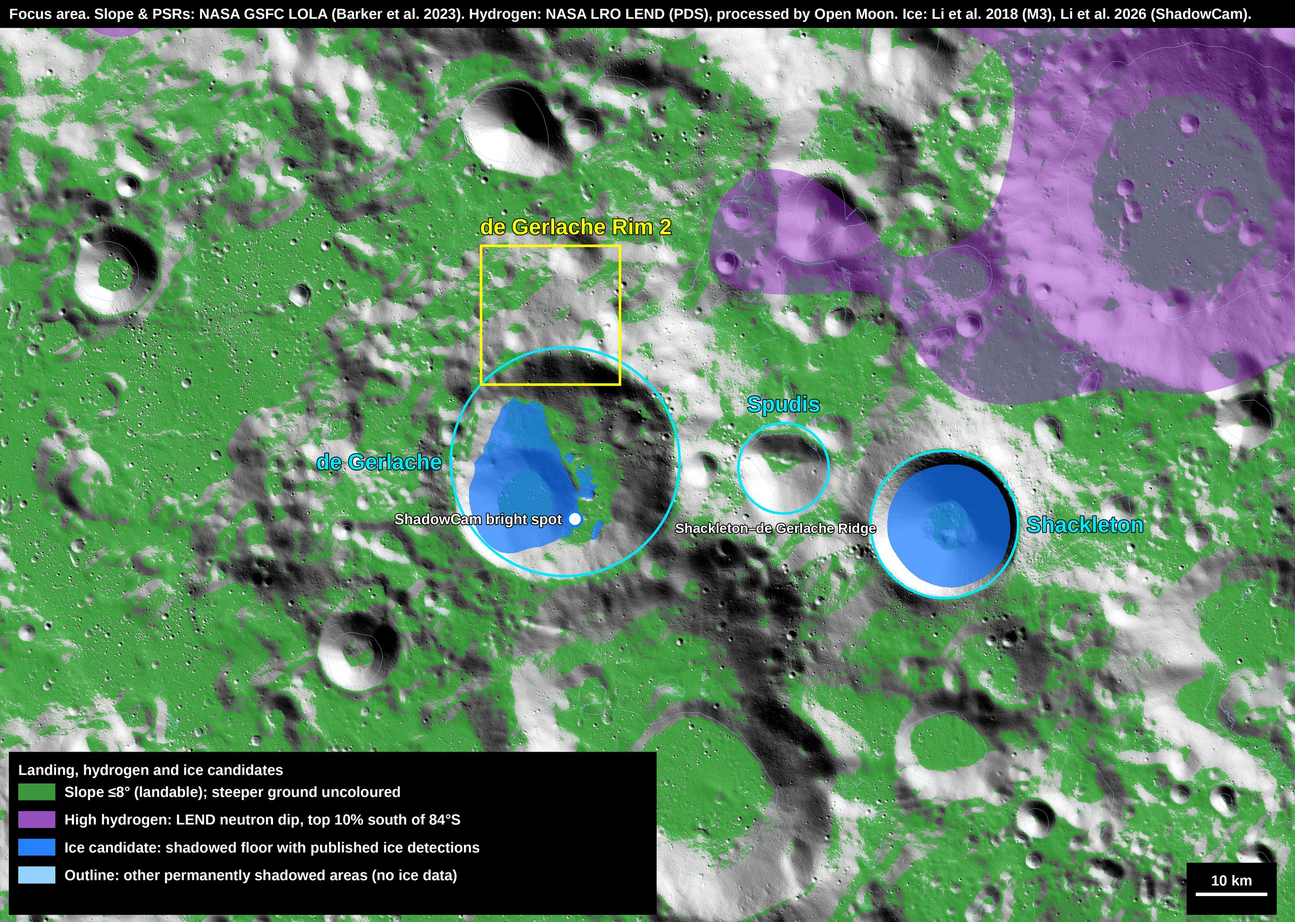
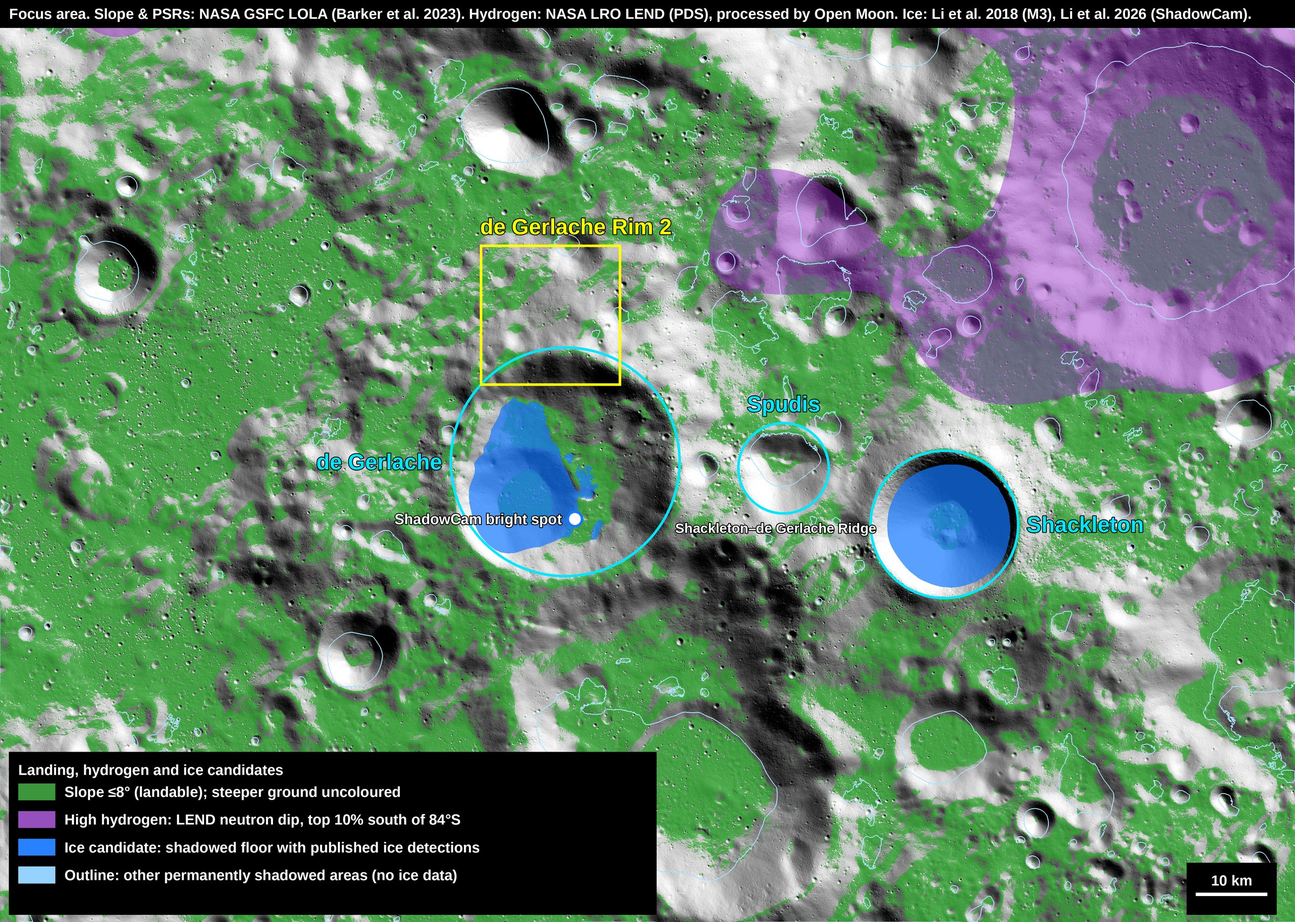
M00: raw slope, hydrogen, ice candidate and combined map sections
Adds the raw LOLA slope map, NASA's M3 (2018) and LRO possible-ice maps,
a focus-area ice-candidate map, and a final section combining all layers.

Claude-Session: https://claude.ai/code/session_01EMgvSv8Ki6A9jj7v8eiV3S

diff --git a/analysis/hydrogen/mk_ice.py b/analysis/hydrogen/mk_ice.py
@@ -1,0 +1,70 @@
+"""Focus-area map: landable ground (slope <=8 deg, green), high hydrogen (LEND, purple),
+ice candidates (blue): permanently shadowed regions (NASA GSFC LPSR) of Shackleton and de Gerlache,
+where published ice detections are reported, plus the ShadowCam high-reflectance spot."""
+import sys, os, math, pickle, numpy as np
+sys.path.insert(0, os.path.dirname(os.path.abspath(__file__)))
+sys.path.insert(0, os.path.join(os.path.dirname(os.path.abspath(__file__)), '../slope'))
+from render import read, px2m, lonlat2m, FB
+from hydro import supp_grid, THR, ZMIN
+from PIL import Image, ImageDraw, ImageFont
+PSR = sys.argv[1] if len(sys.argv) > 1 else 'psr_focus.pkl'
+OUT = sys.argv[2] if len(sys.argv) > 2 else 'focus-landing-hydrogen-ice.jpg'
+font = lambda sz: ImageFont.truetype(FB, int(sz))
+fx0, fy1 = px2m(292, 518); fx1, fy0 = px2m(953, 989); B = (fx0, fy0, fx1, fy1); RES = 40
+s = read('LDSM_83S_10MPP_ADJ', B, RES); h = read('LDEM_83S_10MPP_ADJ_HILL', B, RES); H, W = s.shape
+S = Z = None
+up = lambda a: np.array(Image.fromarray(a.astype('float32'), mode='F').resize((W, H), Image.BILINEAR))
+high = None
+m2p = lambda x, y: ((x - B[0]) / RES, (B[3] - y) / RES)
+# PSR rasters
+psrs = pickle.load(open(PSR, 'rb'))
+CANDS = {'Shackleton': (lonlat2m(-89.67, 129.78), 10.5e3), 'de Gerlache': (lonlat2m(-88.5, -87.1), 16.2e3)}
+cand = Image.new('L', (W, H), 0); other = Image.new('L', (W, H), 0)
+dc, do = ImageDraw.Draw(cand), ImageDraw.Draw(other)
+def signed_area(r): x, y = r[:, 0], r[:, 1]; return 0.5 * (x[:-1] * y[1:] - x[1:] * y[:-1]).sum()
+for gid, area, name, b, rings in psrs:
+    cx, cy = (b[0] + b[2]) / 2, (b[1] + b[3]) / 2
+    is_c = area > 1 and any(math.hypot(cx - p[0], cy - p[1]) < rad for p, rad in CANDS.values())
+    if not is_c and area < 0.5: continue
+    d = dc if is_c else do
+    for r in rings:
+        pts = [m2p(x, y) for x, y in r]
+        if len(pts) < 3: continue
+        d.polygon(pts, fill=255 if signed_area(r) < 0 else 0)   # shapefile: outer rings clockwise
+cand = np.array(cand) > 0; other = np.array(other) > 0
+hv = np.nan_to_num(h); hv = np.clip((hv - np.percentile(hv, 1)) / (np.percentile(hv, 99) - np.percentile(hv, 1)), 0, 1)
+base = np.stack([hv * 255] * 3, -1)
+rgb = base.copy()
+
+rgb = np.where(cand[..., None], rgb * 0.3 + np.array([20, 120, 255]) * 0.7, rgb)
+im = Image.fromarray(rgb.clip(0, 255).astype('uint8'))
+# thin outline for other PSRs (no published ice data)
+edge = other & ~(np.roll(other, 1, 0) & np.roll(other, -1, 0) & np.roll(other, 1, 1) & np.roll(other, -1, 1))
+edge = edge | np.roll(edge, 1, 0) | np.roll(edge, 1, 1) | np.roll(edge, -1, 0) | np.roll(edge, -1, 1)
+a = np.array(im); a[edge] = (170, 225, 255); im = Image.fromarray(a)
+dr = ImageDraw.Draw(im); k = max(W, H) / 1400; F = font(24 * k); Fs = font(16 * k)
+for lat_, lon_, diam, lab, side in [(-(89 + 40 / 60), 129 + 47 / 60, 21.0, 'Shackleton', 'r'), (-88.5, -87.1, 32.4, 'de Gerlache', 'l'), (-89.51, -84.61, 13.0, 'Spudis', 't')]:
+    x, y = m2p(*lonlat2m(lat_, lon_)); rr = diam * 500 / RES
+    dr.ellipse((x - rr, y - rr, x + rr, y + rr), outline=(0, 230, 255), width=max(2, int(3 * k)))
+    if side == 't': dr.text((x, y - rr - 6 * k), lab, font=F, fill=(0, 230, 255), anchor='md', stroke_width=3, stroke_fill=(0, 0, 0))
+    else: dr.text((x + (rr + 8 * k if side == 'r' else -rr - 8 * k), y), lab, font=F, fill=(0, 230, 255), anchor='lm' if side == 'r' else 'rm', stroke_width=3, stroke_fill=(0, 0, 0))
+x, y = m2p(*lonlat2m(-89.427, -113.82)); dr.text((x, y), 'Shackleton–de Gerlache Ridge', font=font(15 * k), fill='white', anchor='mm', stroke_width=3, stroke_fill=(0, 0, 0))
+rx0, ry1 = px2m(537, 643); rx1, ry0 = px2m(609, 715); p0 = m2p(rx0, ry1); p1 = m2p(rx1, ry0)
+dr.rectangle((*p0, *p1), outline=(255, 255, 0), width=max(2, int(3 * k))); dr.text((p0[0], p0[1] - 6 * k), 'de Gerlache Rim 2', font=F, fill=(255, 255, 0), anchor='ld', stroke_width=3, stroke_fill=(0, 0, 0))
+# ShadowCam spot
+x, y = m2p(*lonlat2m(-88.5352, -97.4007)); r = 9 * k
+dr.ellipse((x - r, y - r, x + r, y + r), fill=(255, 255, 255), outline=(20, 120, 255), width=int(3 * k))
+dr.text((x - 14 * k, y), 'ShadowCam bright spot', font=Fs, fill='white', anchor='rm', stroke_width=3, stroke_fill=(0, 0, 0))
+lx, ly = int(20 * k), H - int(90 * k)
+dr.rectangle((lx - 10 * k, ly - 34 * k, lx + 690 * k, H - 8 * k), fill=(0, 0, 0))
+dr.text((lx, ly - 6 * k), 'Ice candidates', font=Fs, fill='white', anchor='ld')
+rows = [((40, 130, 255), 'Ice candidate: shadowed floor with published ice detections'),
+        ((150, 210, 255), 'Outline: other permanently shadowed areas (no ice data)')]
+for i, (c, t) in enumerate(rows):
+    yy = ly + i * 30 * k; dr.rectangle((lx, yy, lx + 40 * k, yy + 18 * k), fill=c); dr.text((lx + 50 * k, yy + 9 * k), t, font=Fs, fill='white', anchor='lm')
+L = 10000 / RES; sx = W - L - 30 * k; sy = H - 30 * k
+dr.rectangle((sx - 10 * k, sy - 34 * k, sx + L + 10 * k, H - 8 * k), fill=(0, 0, 0)); dr.line([(sx, sy), (sx + L, sy)], fill='white', width=int(4 * k)); dr.text((sx + L / 2, sy - 6 * k), '10 km', font=Fs, fill='white', anchor='md')
+dr.rectangle((0, 0, W, int(30 * k)), fill=(0, 0, 0))
+dr.text((10 * k, 6 * k), 'Focus area. Slope & PSRs: NASA GSFC LOLA (Barker et al. 2023). Ice: Li et al. 2018 (M3), Li et al. 2026 (ShadowCam).', font=Fs, fill='white')
+im.thumbnail((2400, 2400), Image.LANCZOS); im.save(OUT, quality=85, optimize=True)
+print('ice-candidate PSR %.1f km2, other PSR %.1f km2' % (cand.sum() * RES * RES / 1e6, other.sum() * RES * RES / 1e6))

diff --git a/analysis/hydrogen/mk_raw.py b/analysis/hydrogen/mk_raw.py
@@ -1,0 +1,34 @@
+"""Raw LOLA slope (LDSM, degrees) for the focus area on a continuous scale, no classes."""
+import sys, os, numpy as np
+sys.path.insert(0, os.path.dirname(os.path.abspath(__file__)))
+sys.path.insert(0, os.path.join(os.path.dirname(os.path.abspath(__file__)), '../slope'))
+from render import read, px2m, lonlat2m, FB
+from PIL import Image, ImageDraw, ImageFont
+OUT = sys.argv[1] if len(sys.argv) > 1 else 'focus-slope-raw.jpg'
+font = lambda sz: ImageFont.truetype(FB, int(sz))
+fx0, fy1 = px2m(292, 518); fx1, fy0 = px2m(953, 989); B = (fx0, fy0, fx1, fy1); RES = 40
+s = read('LDSM_83S_10MPP_ADJ', B, RES); H, W = s.shape
+# viridis stops, 0..45 degrees
+stops = np.array([0, 11.25, 22.5, 33.75, 45.]); cols = np.array([[68, 1, 84], [59, 82, 139], [33, 145, 140], [94, 201, 98], [253, 231, 37]], float)
+def ramp(v):
+    v = np.clip(v, 0, 45); return np.stack([np.interp(v, stops, cols[:, c]) for c in range(3)], -1)
+im = Image.fromarray(ramp(np.nan_to_num(s)).astype('uint8')); dr = ImageDraw.Draw(im)
+k = max(W, H) / 1400; F = font(24 * k); Fs = font(16 * k)
+m2p = lambda x, y: ((x - B[0]) / RES, (B[3] - y) / RES)
+for lat_, lon_, diam, lab, side in [(-(89 + 40 / 60), 129 + 47 / 60, 21.0, 'Shackleton', 'r'), (-88.5, -87.1, 32.4, 'de Gerlache', 'l'), (-89.51, -84.61, 13.0, 'Spudis', 't')]:
+    x, y = m2p(*lonlat2m(lat_, lon_)); rr = diam * 500 / RES
+    dr.ellipse((x - rr, y - rr, x + rr, y + rr), outline='white', width=max(2, int(2 * k)))
+    if side == 't': dr.text((x, y - rr - 6 * k), lab, font=F, fill='white', anchor='md', stroke_width=3, stroke_fill=(0, 0, 0))
+    else: dr.text((x + (rr + 8 * k if side == 'r' else -rr - 8 * k), y), lab, font=F, fill='white', anchor='lm' if side == 'r' else 'rm', stroke_width=3, stroke_fill=(0, 0, 0))
+lx, ly, lw = int(20 * k), H - int(80 * k), int(450 * k)
+dr.rectangle((lx - 10 * k, ly - 34 * k, lx + lw + 20 * k, H - 8 * k), fill=(0, 0, 0))
+dr.text((lx, ly - 6 * k), 'Slope, degrees (raw LDSM values)', font=Fs, fill='white', anchor='ld')
+g = ramp(np.linspace(0, 45, lw))
+for i in range(lw): dr.line([(lx + i, ly), (lx + i, ly + 18 * k)], fill=tuple(int(c) for c in g[i]))
+for v in (0, 8, 15, 20, 30, 45):
+    xx = lx + lw * v / 45; dr.line([(xx, ly + 18 * k), (xx, ly + 24 * k)], fill='white', width=2); dr.text((xx, ly + 26 * k), f'{v}°' + ('+' if v == 45 else ''), font=Fs, fill='white', anchor='mt')
+L = 10000 / RES; sx = W - L - 30 * k; sy = H - 30 * k
+dr.rectangle((sx - 10 * k, sy - 34 * k, sx + L + 10 * k, H - 8 * k), fill=(0, 0, 0)); dr.line([(sx, sy), (sx + L, sy)], fill='white', width=int(4 * k)); dr.text((sx + L / 2, sy - 6 * k), '10 km', font=Fs, fill='white', anchor='md')
+dr.rectangle((0, 0, W, int(30 * k)), fill=(0, 0, 0))
+dr.text((10 * k, 6 * k), 'Focus area: raw slope, 40 m/px (averaged from 10 m). Data: NASA GSFC PGDA LOLA LDSM_83S_10MPP_ADJ (Barker et al. 2023, doi:10.3847/PSJ/acf3e1).', font=Fs, fill='white')
+im.thumbnail((2400, 2400), Image.LANCZOS); im.save(OUT, quality=85, optimize=True); print('saved', OUT)

diff --git a/analysis/hydrogen/mk_lhi.py b/analysis/hydrogen/mk_lhi.py
@@ -40,7 +40,8 @@ rgb = np.where(cand[..., None], rgb * 0.3 + np.array([20, 120, 255]) * 0.7, rgb)
 im = Image.fromarray(rgb.clip(0, 255).astype('uint8'))
 # thin outline for other PSRs (no published ice data)
 edge = other & ~(np.roll(other, 1, 0) & np.roll(other, -1, 0) & np.roll(other, 1, 1) & np.roll(other, -1, 1))
-a = np.array(im); a[edge] = (150, 210, 255); im = Image.fromarray(a)
+edge = edge | np.roll(edge, 1, 0) | np.roll(edge, 1, 1) | np.roll(edge, -1, 0) | np.roll(edge, -1, 1)
+a = np.array(im); a[edge] = (170, 225, 255); im = Image.fromarray(a)
 dr = ImageDraw.Draw(im); k = max(W, H) / 1400; F = font(24 * k); Fs = font(16 * k)
 for lat_, lon_, diam, lab, side in [(-(89 + 40 / 60), 129 + 47 / 60, 21.0, 'Shackleton', 'r'), (-88.5, -87.1, 32.4, 'de Gerlache', 'l'), (-89.51, -84.61, 13.0, 'Spudis', 't')]:
     x, y = m2p(*lonlat2m(lat_, lon_)); rr = diam * 500 / RES

diff --git a/_milestones/m00-site-selection.md b/_milestones/m00-site-selection.md
@@ -51,7 +51,7 @@ sources:
   - {title: "NASA FY2026 Budget Technical Supplement (Lunar Reconnaissance Orbiter, PS-28/29)", url: "https://www.nasa.gov/wp-content/uploads/2025/05/fy-2026-budget-technical-supplement-002.pdf", date: "May 2025"}
   - {title: "Univ. of Hawaii SOEST: Scarce ice in Moon's darkest regions (ShadowCam)", url: "https://www.soest.hawaii.edu/soestwp/announce/news/scarce-ice-in-moons-darkest-regions/", date: "Mar 2026"}
   - {title: "ISRO: Chandrayaan-2 DFSAR observations reveal subsurface ice in lunar south polar regions", url: "https://www.isro.gov.in/Chandrayaan2_Dual_Frequency_Synthetic_Aperture_Radar.html", date: "May 2026"}
-  - {title: "NASA NTRS 20250011660: Artemis III Site Selection Update", url: "https://ntrs.nasa.gov/citations/20250011660", date: "2026"}
+  - {title: "NASA NTRS 20250011660: Artemis III Site Selection Update", url: "https://ntrs.nasa.gov/citations/20250011660", date: "Mar 2026"}
   - {title: "Peak of eternal light (Bussey et al. 2010; Speyerer & Robinson 2013 figures), Wikipedia", url: "https://en.wikipedia.org/wiki/Peak_of_eternal_light", date: "accessed Nov 2026"}
   - {title: "LROC: Islands in the Dark (Shackleton rim illumination)", url: "https://www.lroc.asu.edu/images/1105", date: ""}
   - {title: "NASA ACR22 white paper: Why the Lunar South Polar Region", url: "https://www.nasa.gov/wp-content/uploads/2023/10/acr22-wp-why-lunar-south-polar-region.pdf", date: "Oct 2023"}
@@ -59,7 +59,7 @@ sources:
   - {title: "NASA: Artemis Accords (Section 11, deconfliction and safety zones)", url: "https://www.nasa.gov/artemis-accords/", date: ""}
   - {title: "NASA: Uzbekistan becomes 77th Artemis Accords signatory", url: "https://nasa.gov/organizations/oiir/artemis-accords/nasa-welcomes-uzbekistan-as-newest-artemis-accords-signatory", date: "Oct 2026"}
   - {title: "UNOOSA: Outer Space Treaty (Article II)", url: "https://www.unoosa.org/pdf/publications/ST_SPACE_51E.pdf", date: ""}
-  - {title: "NASA Moon Base – Phases", url: "https://www.nasa.gov/moonbase-phases/", date: "2026"}
+  - {title: "NASA Moon Base – Phases", url: "https://www.nasa.gov/moonbase-phases/", date: "Mar 2026"}
   - {title: "JPL IPN Progress Report 42-176: Lunar pole illumination and communications maps (Bryant)", url: "https://ipnpr.jpl.nasa.gov/progress_report/42-176/176C.html", date: "Feb 2009"}
   - {title: "NASA: NASA Provides Update on Artemis III Moon Landing Regions (map of nine regions, credit NASA/GSFC/ASU/JSC/AGDT)", url: "https://www.nasa.gov/news-release/nasa-provides-update-on-artemis-iii-moon-landing-regions/", date: "Oct 2024"}
   - {title: "Shackleton (crater), Wikipedia (IAU/WGPSN coordinates and diameter)", url: "https://en.wikipedia.org/wiki/Shackleton_(crater)", date: "accessed Nov 2026"}
@@ -70,6 +70,10 @@ sources:
   - {title: "NASA Science: Hydrogen at the Lunar Poles: How Much Water Is There? (summary of Sanin et al. 2017, Icarus 283)", url: "https://science.nasa.gov/wp-content/uploads/2023/05/NuggetHydrogenAtTheLunarPoles20170210.pdf", date: "Feb 2017"}
   - {title: "NASA PDS Geosciences Node: LRO LEND data (averaged south-polar products ALDS, 2009–2016)", url: "https://pds-geosciences.wustl.edu/missions/lro/lend.htm", date: "accessed Nov 2026"}
   - {title: "Feldman et al. 2000, Polar hydrogen deposits on the Moon (J. Geophys. Res.)", url: "https://earthref.org/ERR/61400/", date: "2000"}
+  - {title: "NASA Ames Astrogram, Aug 2018: Ice confirmed at the Moon's poles (M3 surface-ice map, Li et al. 2018)", url: "https://www.nasa.gov/centers-and-facilities/ames/nasa-ames-astrogram-august-2018/", date: "Aug 2018"}
+  - {title: "NASA Science: LRO Science and Data (map of possible water-ice deposits at the south pole)", url: "https://science.nasa.gov/mission/lro/science-and-data/", date: "accessed Nov 2026"}
+  - {title: "Li et al. 2018, Direct evidence of surface exposed water ice in the lunar polar regions (PNAS)", url: "https://europepmc.org/article/PMC/PMC6130389", date: "Aug 2018"}
+  - {title: "Li et al. 2026, Searching for surficial water ice in lunar permanently shaded regions (PSRs) with ShadowCam (Science Advances)", url: "https://europepmc.org/article/PMC/PMC12998505", date: "Mar 2026"}
 risks:
   - {sev: High, title: "ShadowCam's mission is expected to end in early 2028, cutting off new images inside shadowed craters", fix: "Request targeted ShadowCam imaging of candidate PSRs now; archive everything; plan our own prospecting in M01"}
   - {sev: High, title: "Other programmes want the same few sunlit ridges (NASA Moon Base, China's Chang'e-7 near Shackleton)", fix: "Choose a primary and backup site; publish plans early and coordinate under Artemis Accords deconfliction; design for shared infrastructure"}
@@ -120,7 +124,17 @@ Connecting Ridge and Connecting Ridge Extension were on NASA's original 2022 lis
 
 ## Terrain slope in the focus area
 
-Slope comes from NASA Goddard's LOLA slope map (LDSM) at 10 m per pixel<sup class="r">[18](#s18)</sup>, laid over NASA's LOLA hillshade. Open Moon colours it in four classes, set from what landers can actually handle (see [Lander candidates]({{ '/landers/' | relative_url }})):
+Slope comes from NASA Goddard's LOLA slope map (LDSM) at 10 m per pixel<sup class="r">[18](#s18)</sup>.
+
+### Raw slope data
+
+The LDSM values as published, in degrees, on a continuous scale with no classes (averaged to 40 m per pixel for the whole focus area). The data file is [LDSM_83S_10MPP_ADJ.TIF](https://pgda.gsfc.nasa.gov/data/LOLA_20mpp/LDSM_83S_10MPP_ADJ.TIF) (7.5 GB) on NASA Goddard's [product page](https://pgda.gsfc.nasa.gov/products/90).
+
+![Raw LOLA slope in degrees across the Open Moon focus area, dark flat to yellow steep]({{ '/assets/sites/focus-slope-raw.jpg' | relative_url }})
+
+### Slope classes
+
+Laid over NASA's LOLA hillshade. Open Moon colours slope in four classes, set from what landers can actually handle (see [Lander candidates]({{ '/landers/' | relative_url }})):
 
 | Colour | Slope | Why this break |
 |---|---|---|
@@ -185,15 +199,38 @@ We downloaded NASA's LEND south-polar data (0.5° cells, 2009–2016)<sup class=
 
 ![Hydrogen from NASA LEND data around the south pole to 84°S, with the Open Moon focus area outlined]({{ '/assets/sites/south-pole-lend-hydrogen.jpg' | relative_url }})
 
-### Landable ground, hydrogen and ice candidates
+## Ice candidates
 
-Green marks ground with slope of 8° or less (landable for every published lander rule); steeper ground is left uncoloured. **Purple** marks high hydrogen from LEND. **Blue** marks ice candidates: the permanently shadowed floors of Shackleton (233 km²) and de Gerlache (242 km²), outlined from NASA Goddard's shadow map<sup class="r">[18](#s18)</sup>, where published ice detections are reported (see the [ice research]({{ site.repo }}/blob/main/research/ice/south-pole-water-ice.md)). The white dot is ShadowCam's unexplained bright spot at 88.5352°S, 97.4007°W, inside de Gerlache's shadowed floor. Thin pale outlines are other permanently shadowed areas with no published ice data, including Spudis and the small craters along the ridge.
+Ice candidates are places where instruments have reported signs of water ice at or near the surface. None in the focus area is confirmed; the evidence for and against is in the [ice research]({{ site.repo }}/blob/main/research/ice/south-pole-water-ice.md).
+
+### NASA's maps
+
+![NASA map of surface water ice detected by the Moon Mineralogy Mapper at the lunar south pole (left) and north pole (right)]({{ '/assets/sites/nasa-m3-polar-ice-2018.jpg' | relative_url }})
+
+*Surface ice detected by NASA's Moon Mineralogy Mapper (M3) on Chandrayaan-1: south pole left, north pole right. Ice locations are shown in cyan over surface temperature (darker is colder). At the south pole most of the ice is in craters<sup class="r">[23](#s23)</sup><sup class="r">[25](#s25)</sup>.*
+
+![NASA LRO map of areas of the Moon's south pole with possible deposits of water ice, shown in blue]({{ '/assets/sites/nasa-lro-south-pole-possible-ice.jpg' | relative_url }})
+
+*"Areas of the Moon's south pole with possible deposits of water ice, shown in blue. The map is based on data taken by NASA's Lunar Reconnaissance Orbiter."<sup class="r">[24](#s24)</sup>*
+
+### Ice candidates in the focus area
+
+Blue marks the permanently shadowed floors of Shackleton (233 km²) and de Gerlache (242 km²), outlined from NASA Goddard's shadow map<sup class="r">[18](#s18)</sup>, where published ice detections are reported<sup class="r">[25](#s25)</sup>. The white dot is ShadowCam's unexplained bright spot at 88.5352°S, 97.4007°W, inside de Gerlache's shadowed floor<sup class="r">[26](#s26)</sup>. Pale outlines are other permanently shadowed areas with no published ice data, including Spudis and the small craters along the ridge.
+
+![Ice candidates in the Open Moon focus area: shadowed floors of Shackleton and de Gerlache in blue, ShadowCam bright spot, other shadowed areas outlined]({{ '/assets/sites/focus-ice-candidates.jpg' | relative_url }})
+
+- **Shackleton:** a bright floor in LOLA data, radar results allowing some ice in its walls, and nearby M3 ice spectra; but Kaguya and ShadowCam found no exposed ice, and part of the floor gets above 110 K in summer.
+- **de Gerlache:** one M3 ice spectrum and the ShadowCam bright spot, which needs more viewing angles to test.
+
+## All layers combined
+
+Green: slope of 8° or less (landable for every published lander rule); steeper ground is left uncoloured. **Purple:** high hydrogen from LEND. **Blue:** ice candidates. White dot: ShadowCam bright spot.
 
 ![Open Moon focus area: landable ground of 8° or less in green, high hydrogen in purple, ice-candidate shadowed floors in blue]({{ '/assets/sites/focus-landing-hydrogen.jpg' | relative_url }})
 
 - **Landable:** 43 % of the focus area is 8° or less.
 - **Hydrogen:** 13 % is high hydrogen, mostly the upper right (toward 0–60°E, around 88°S); 4.6 % is both landable and high hydrogen. It does not cover Shackleton, Spudis, the ridge or de Gerlache Rim 2.
-- **Ice candidates:** Shackleton's floor has a bright floor in LOLA data, radar results allowing some ice in its walls, and nearby M3 ice spectra, but Kaguya and ShadowCam found no exposed ice. de Gerlache has one M3 ice spectrum and the ShadowCam bright spot. None is confirmed.
+- **Ice candidates:** 483 km² of shadowed crater floor in Shackleton and de Gerlache, with landable ground on the rims next to both.
 - **Why hydrogen and ice candidates differ:** LEND averages the top ~1 m over ~15 km cells, while M3 and LOLA see the top millimetres or microns at a few hundred metres. A thin frost or small patches can show in one and not the other. Only ground measurements (M01) can settle it.
 
 ## Step-by-step
